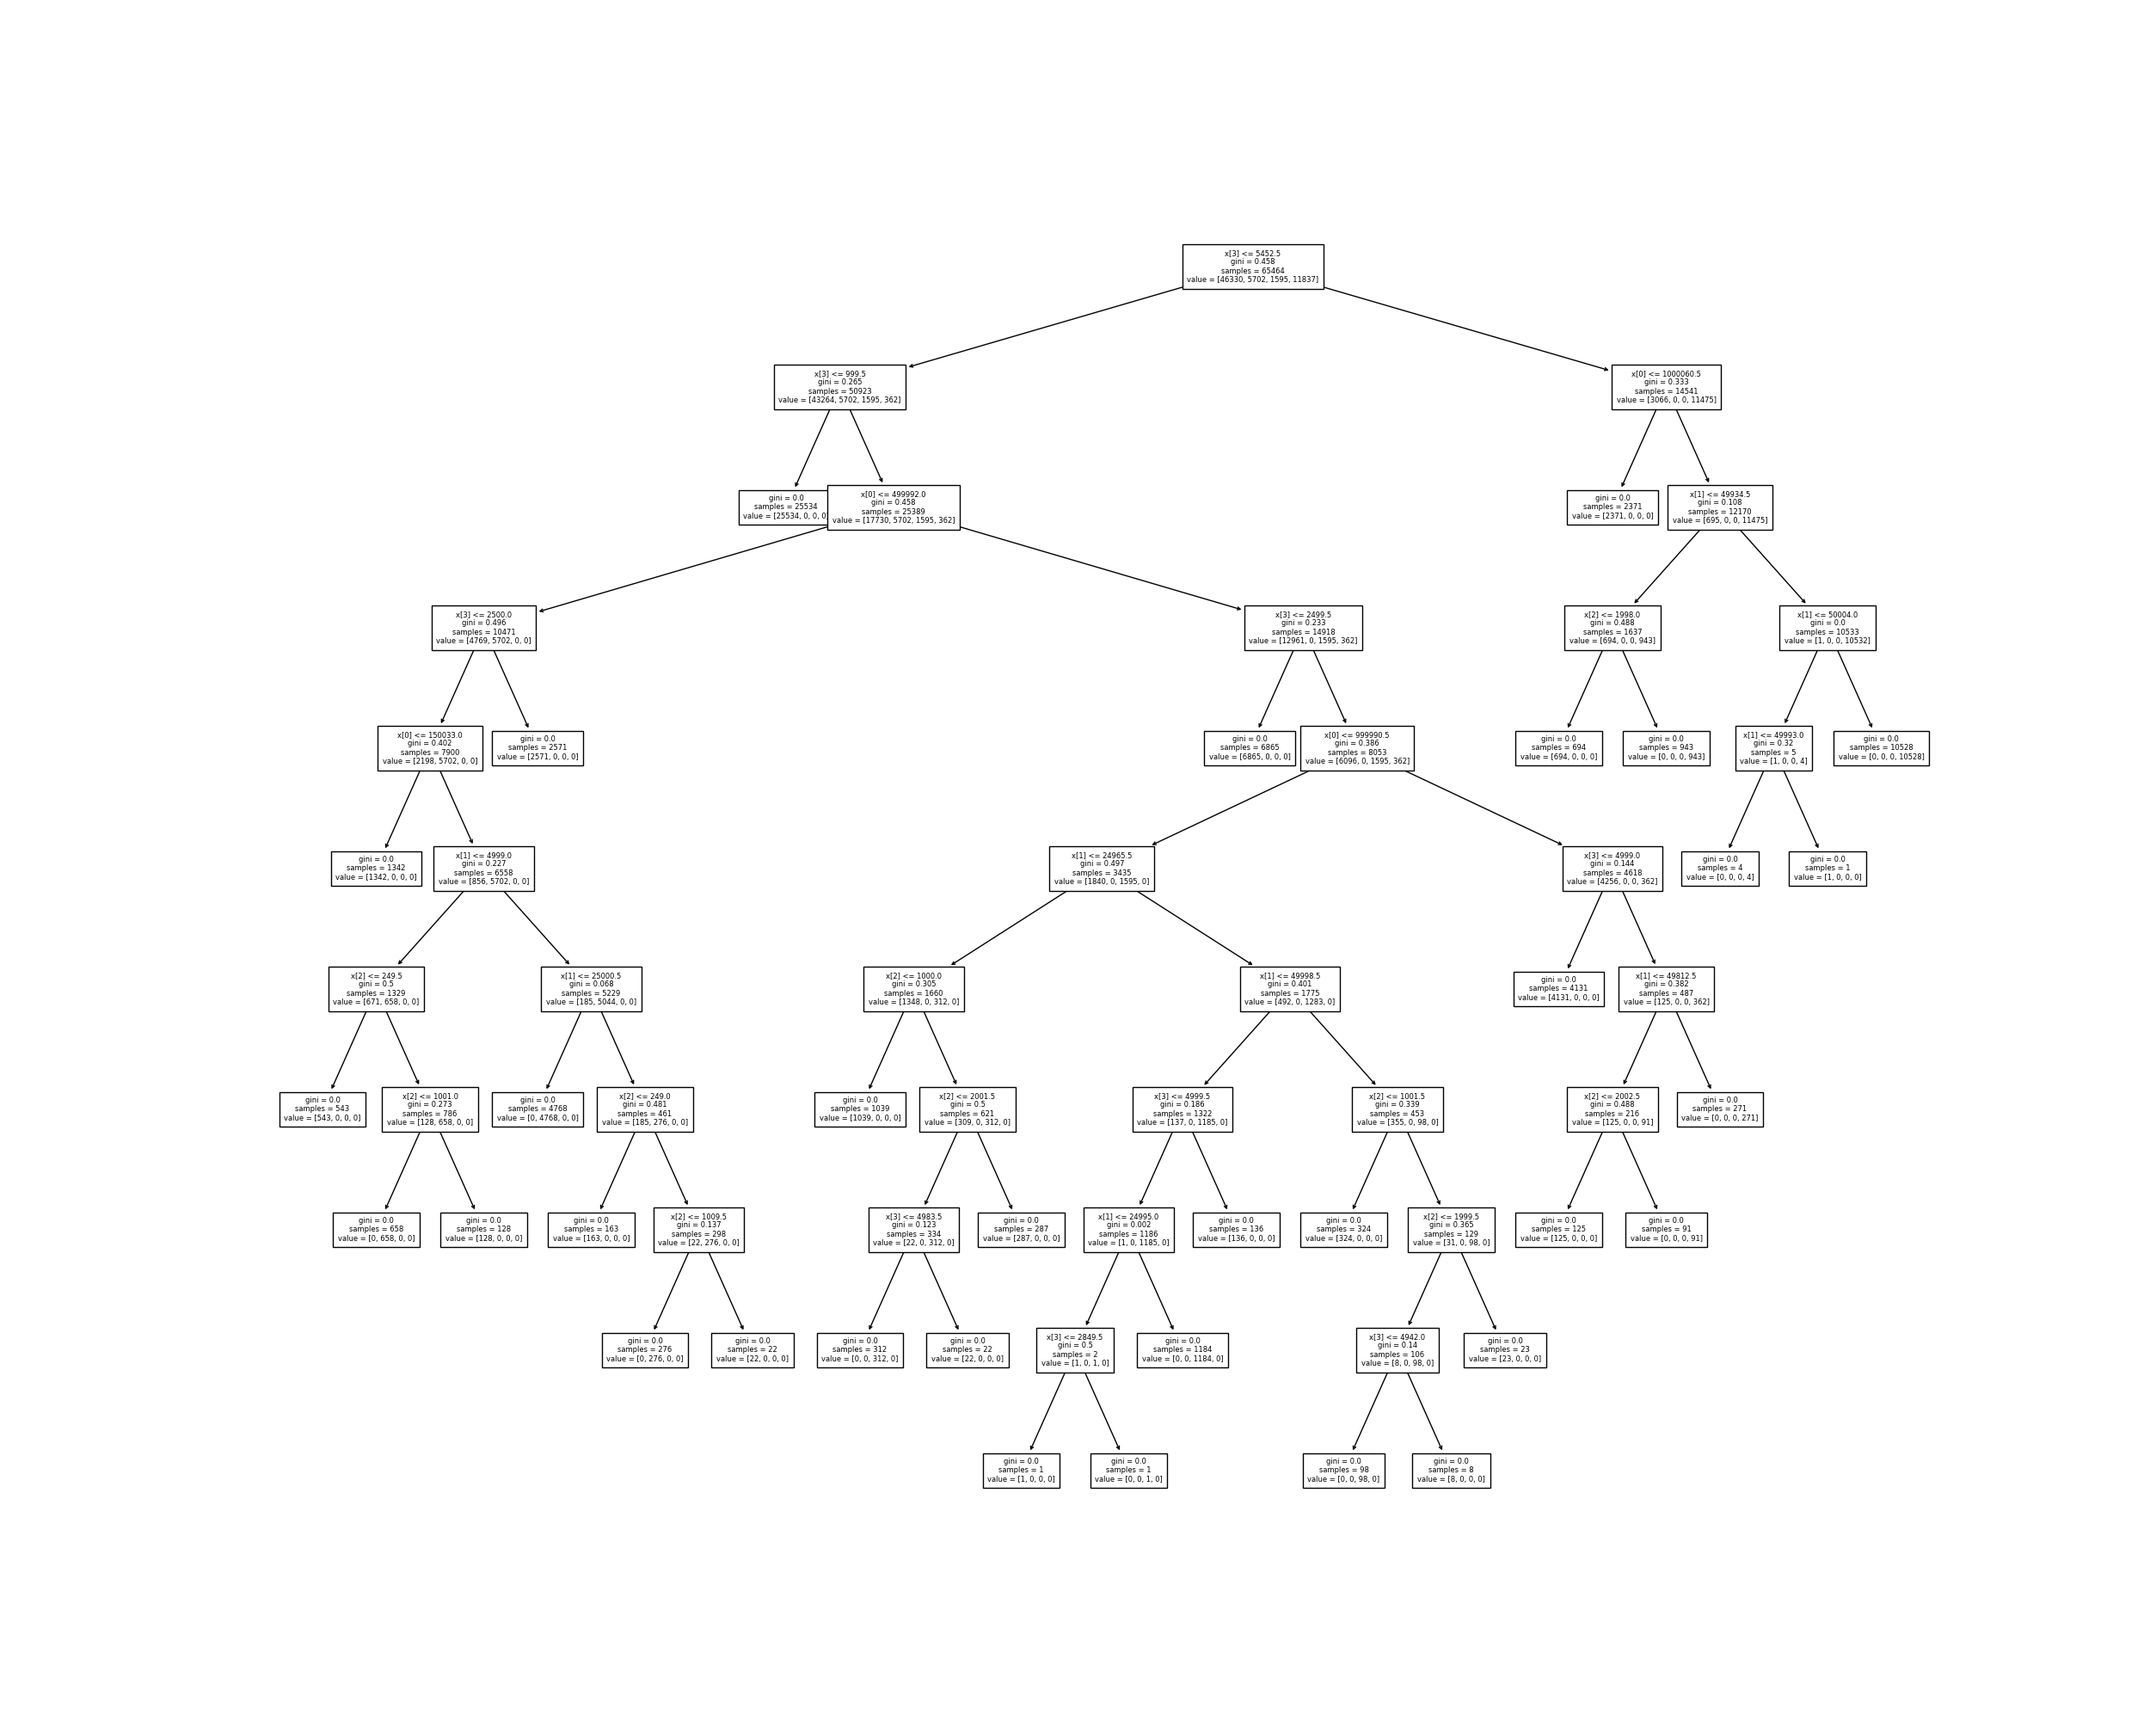
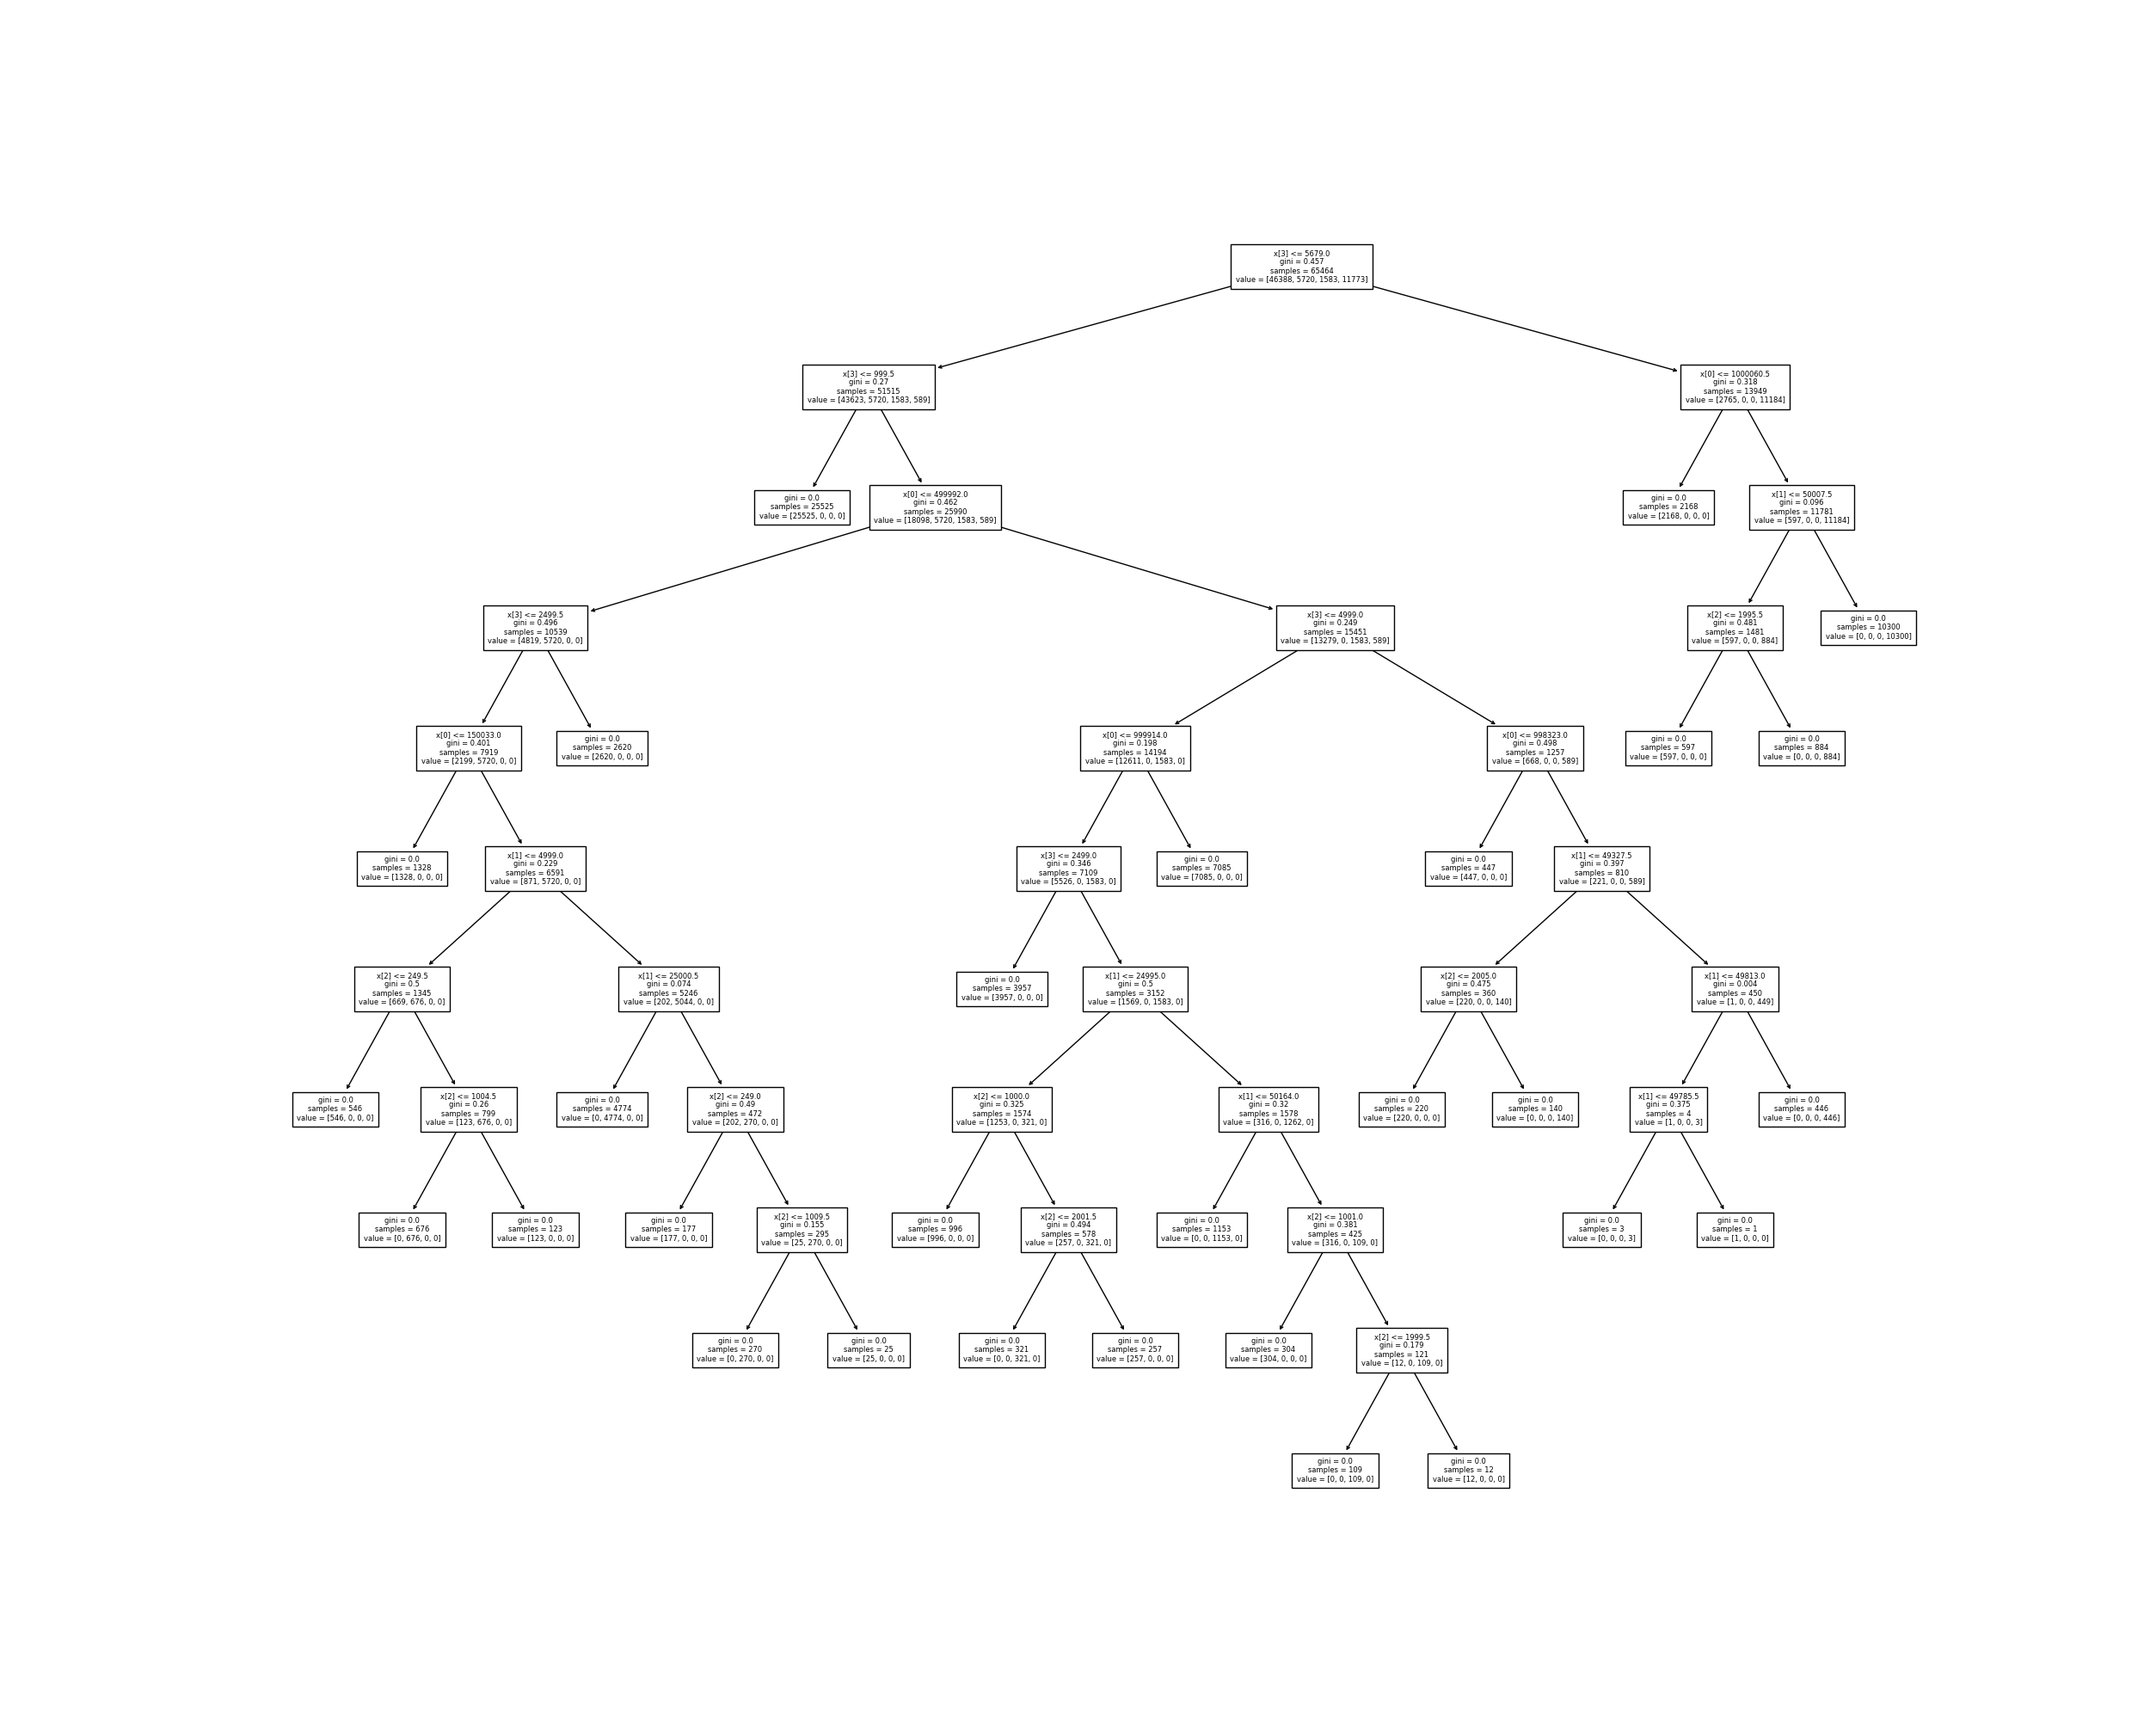
Added KMeans Clustering

diff --git a/VideoGenreClusters.py b/VideoGenreClusters.py
@@ -1,0 +1,92 @@
+import matplotlib.pyplot as plt
+import pandas as pd
+from sklearn.compose import ColumnTransformer
+from sklearn.feature_extraction.text import TfidfVectorizer
+from sklearn.cluster import KMeans
+from sklearn.metrics import silhouette_score
+from wordcloud import WordCloud
+
+# Array of features
+col_names = ['title', 'tags', 'description']
+
+# Array of csv files for data
+csv_files = ['CAvideos.csv', 'USvideos.csv']
+
+# load and combine dataset from CAvideos.csv and USvideos.csv files
+video_metadata = pd.concat([pd.read_csv(data) for data in csv_files])
+
+# create dataframe using relevant features
+video_metadata = video_metadata[col_names]
+
+# check for null values in any of the feature columns and fill them with empty string
+for column in video_metadata.columns:
+    video_metadata[column].fillna("", inplace=True)
+
+# create 3 text vectorizer objects that take turn the text data for each feature into numeric data
+# for the clustering algorithm to work.
+textVectorizerTitles = TfidfVectorizer(stop_words='english', ngram_range=(1, 3), strip_accents='unicode')
+textVectorizerTags = TfidfVectorizer(stop_words='english', ngram_range=(1, 3), strip_accents='unicode')
+textVectorizerDescriptions = TfidfVectorizer(stop_words='english', ngram_range=(1, 3), strip_accents='unicode')
+
+# combine all 3 text vectorizers into 1 column transformer so that the vectorizer can be applied on the entire
+# dataframe
+column_transformer = ColumnTransformer(
+    [('tf_title', textVectorizerTitles, 'title'),
+     ('tf_tags', textVectorizerTags, 'tags'),
+     ('tf_description', textVectorizerDescriptions, 'description')], verbose_feature_names_out=False)
+
+# turn the text features into numeric features
+features_trans = column_transformer.fit_transform(video_metadata)
+
+
+# Loop through the KMeans cluster algo. and using the specified number of clusters from 2 to 10 and store the
+# sum of squared distances for each number of cluster and the silhouette scores for each cluster.
+
+def findOptimalCluster():
+    maxClusters = 10
+    number_of_clusters = range(2, maxClusters + 1)
+    KmeansInertia = []
+    silhouette_scores = []
+    for cluster in number_of_clusters:
+        K = KMeans(n_clusters=cluster, n_init=10)
+        K.fit(features_trans)
+        KmeansInertia.append(K.inertia_)
+        silhouette_scores.append(silhouette_score(features_trans, K.labels_, metric='euclidean'))
+
+    # plot the sum of squared distances vs number of cluster graph.
+    plt.plot(number_of_clusters, KmeansInertia, 'bx-')
+    plt.xlabel('Number of Clusters')
+    plt.ylabel('Sum of Squared Distances')
+    plt.title('Clusters vs Distance')
+    plt.savefig('Squared Distances vs Clusters Graph')
+
+    # plot the silhouette score vs number of cluster graph.
+    plt.plot(number_of_clusters, silhouette_scores, 'bx-')
+    plt.xlabel('Number of Clusters')
+    plt.ylabel('Silhouette Score')
+    plt.title('Silhouette Score vs Clusters')
+    plt.savefig('SS vs Clusters Graph')
+
+# Based on the graphs created we fit the data on the KMeans model with the ideal number of clusters
+optimalCluster = 10
+trueModel = KMeans(n_clusters=optimalCluster, init='k-means++', max_iter=600, n_init=10)
+trueModel.fit(features_trans)
+
+# After clustering the data we can obtain the predicated labels/clusters each video belongs to and display them in a
+# dataframe.
+predictedClusters = trueModel.labels_
+videoClusters = pd.DataFrame(list(zip(video_metadata['title'], predictedClusters)), columns=['title', 'cluster'])
+print(videoClusters.sort_values(by=['cluster']))
+
+# We can use the WordCloud library to visualize which video titles belong to which cluster and get an idea of the
+# genre the cluster represents.
+for k in range(optimalCluster):
+    videoTitles = videoClusters[videoClusters.cluster == k]['title'].str.cat(sep=' ')
+    wordCloud = WordCloud(max_font_size=50, max_words=100, background_color='white').generate(videoTitles)
+
+    plt.subplot(2, 5, k+1).set_title('Cluster ' + str(k))
+    plt.plot()
+    plt.imshow(wordCloud, interpolation='bilinear')
+    plt.axis('off')
+
+plt.savefig('Cluster Visualization')

diff --git a/VideoSuccessClassifier.py b/VideoSuccessClassifier.py
@@ -65,7 +65,7 @@ features = video_analytics[col_names]
 target_labels = video_analytics['Encoded_Labels']
 
 # Split dataset into training set and test set
-X_train, X_test, y_train, y_test = train_test_split(features, target_labels, test_size=0.2, random_state=21,
+X_train, X_test, y_train, y_test = train_test_split(features, target_labels, test_size=0.2, random_state=1,
                                                     shuffle=True)
 
 # Create Decision Tree object
